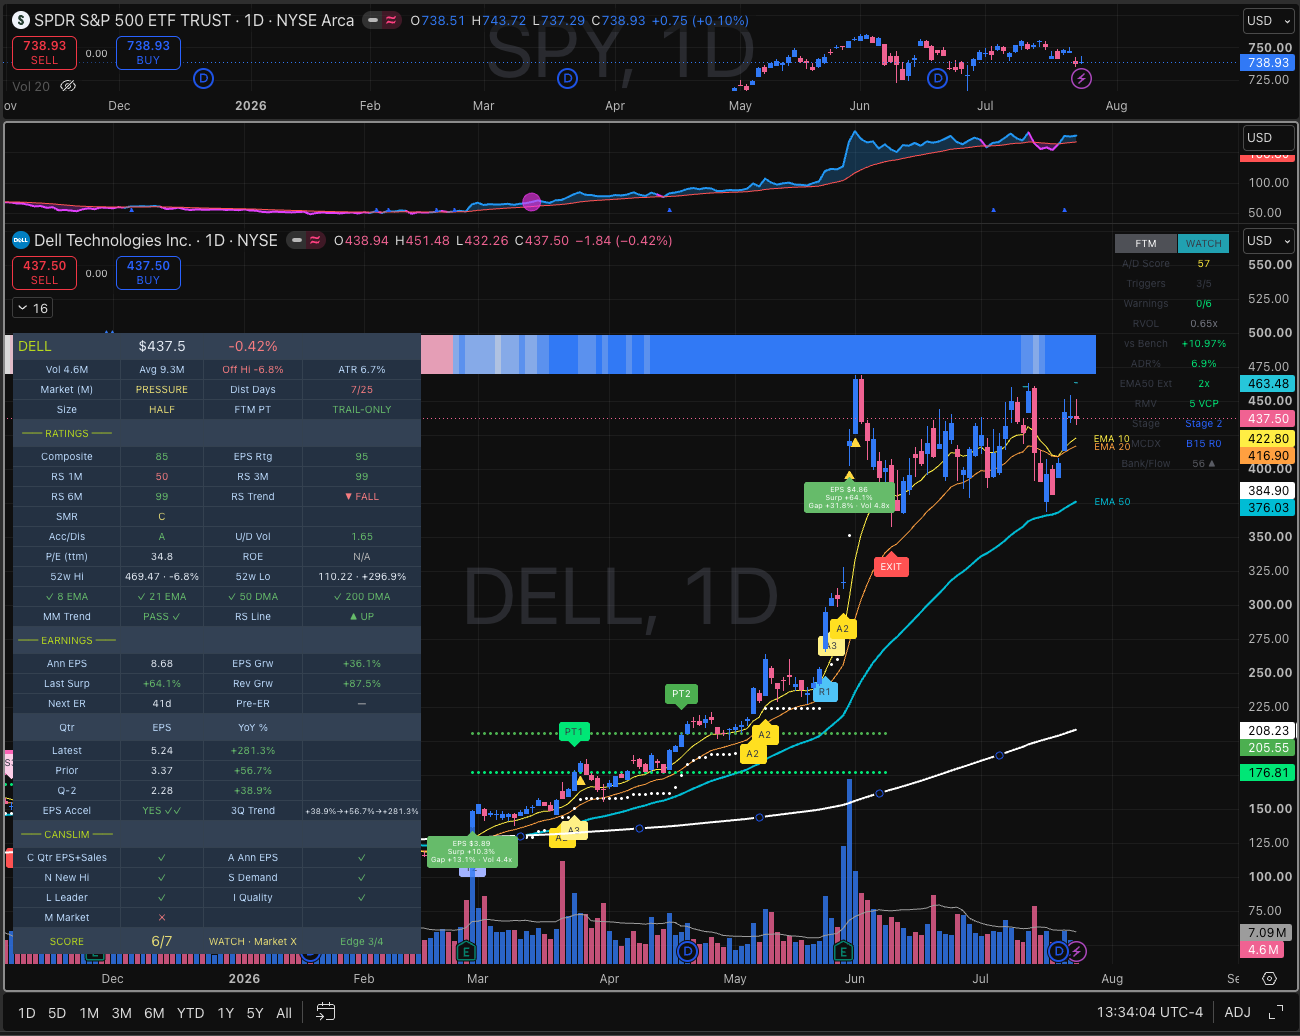
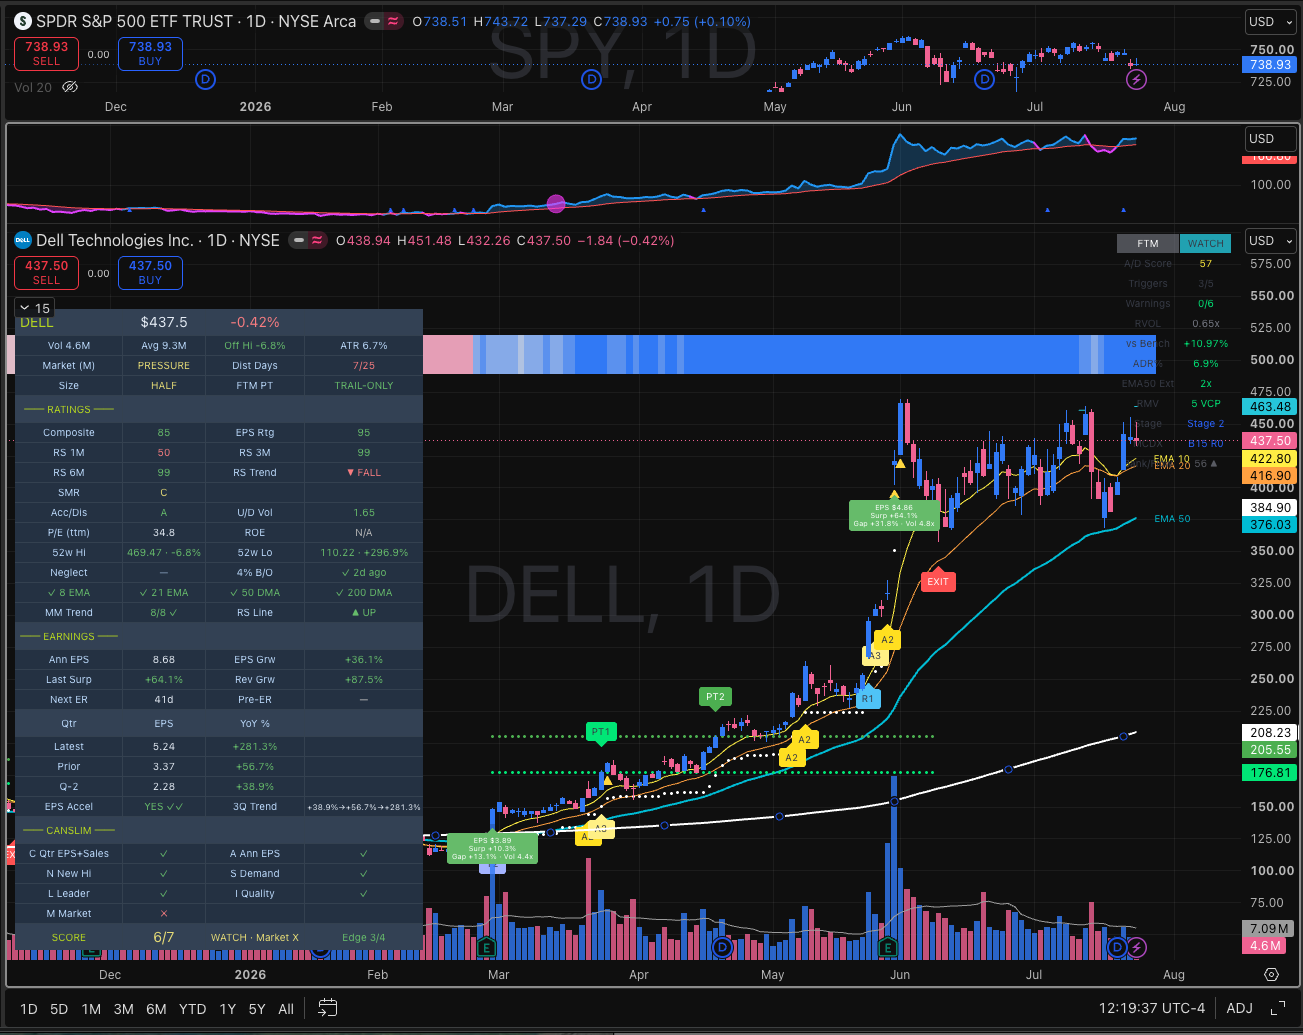
Guide: MarketMerge v2.4 — Neglect/4% B/O row, DELL worked-example replica + new screenshot, TradingView scripts link

diff --git a/FTM_Indicator_Guide.html b/FTM_Indicator_Guide.html
@@ -365,7 +365,8 @@
   <button class="tabbtn active" data-tab="wf">Workflow</button>
   <button class="tabbtn" data-tab="ftm">FTM Plus</button>
   <button class="tabbtn" data-tab="mm">MarketMerge</button>
-  <div class="ver">FTM+ v1.1 · MM v2.3</div>
+  <a class="ver" href="https://www.tradingview.com/u/jackTD25/#published-scripts" target="_blank" rel="noopener" style="margin-left:auto; color:var(--blue); border-color:#2a4a7a; text-decoration:none; font-weight:600">Get the indicators on TradingView ↗</a>
+  <div class="ver" style="margin-left:8px">FTM+ v1.1 · MM v2.4</div>
 </nav>
 
 <div class="page">
@@ -751,38 +752,36 @@
       <div class="section-title">Dashboard walkthrough</div>
       <div class="replica-wrap">
         <div class="panel">
-          <div class="prow phead"><div class="lime">NVDA</div><div class="val">$188.42</div><div class="grn">+2.14%</div><div></div></div>
-          <div class="prow"><div class="lbl">Vol 41.2M</div><div class="lbl">Avg 38.5M</div><div class="grn">Off Hi -3.2%</div><div class="lbl">ATR 2.8%</div></div>
-          <div class="prow"><div class="lbl">Market (M)</div><div class="grn">UPTREND</div><div class="lbl">Dist Days</div><div class="grn">2/25</div></div>
-          <div class="prow"><div class="lbl">Size</div><div class="grn">FULL ▲</div><div class="lbl">FTM PT</div><div class="grn">TRAIL-ONLY</div></div>
+          <div class="prow phead"><div class="lime">DELL</div><div class="val">$437.50</div><div class="rd">-0.42%</div><div></div></div>
+          <div class="prow"><div class="lbl">Vol 4.6M</div><div class="lbl">Avg 9.3M</div><div class="grn">Off Hi -6.8%</div><div class="lbl">ATR 6.7%</div></div>
+          <div class="prow"><div class="lbl">Market (M)</div><div class="yel">PRESSURE</div><div class="lbl">Dist Days</div><div class="rd">7/25</div></div>
+          <div class="prow"><div class="lbl">Size</div><div class="yel">HALF</div><div class="lbl">FTM PT</div><div class="grn">TRAIL-ONLY</div></div>
           <div class="prow phead"><div class="lime">── RATINGS ──</div><div></div><div></div><div></div></div>
-          <div class="prow"><div class="lbl">Composite</div><div class="grn">88</div><div class="lbl">EPS Rtg</div><div class="grn">85</div></div>
-          <div class="prow"><div class="lbl">RS 1M</div><div class="grn">99</div><div class="lbl">RS 3M</div><div class="grn">92</div></div>
-          <div class="prow"><div class="lbl">RS 6M</div><div class="grn">88</div><div class="lbl">RS Trend</div><div class="grn">▲ RISE</div></div>
-          <div class="prow"><div class="lbl">SMR</div><div class="grn">A</div><div class="lbl"></div><div class="lbl"></div></div>
-          <div class="prow"><div class="lbl">Acc/Dis</div><div class="grn">B+</div><div class="lbl">U/D Vol</div><div class="grn">1.34</div></div>
-          <div class="prow"><div class="lbl">P/E (ttm)</div><div class="val">48.2</div><div class="lbl">ROE</div><div class="grn">31.4%</div></div>
-          <div class="prow"><div class="lbl">52w Hi</div><div class="grn">194.60 · -3.2%</div><div class="lbl">52w Lo</div><div class="grn">96.30 · +95.6%</div></div>
+          <div class="prow"><div class="lbl">Composite</div><div class="grn">85</div><div class="lbl">EPS Rtg</div><div class="grn">95</div></div>
+          <div class="prow"><div class="lbl">RS 1M</div><div class="rd">50</div><div class="lbl">RS 3M</div><div class="grn">99</div></div>
+          <div class="prow"><div class="lbl">RS 6M</div><div class="grn">99</div><div class="lbl">RS Trend</div><div class="rd">▼ FALL</div></div>
+          <div class="prow"><div class="lbl">SMR</div><div class="yel">C</div><div class="lbl"></div><div class="lbl"></div></div>
+          <div class="prow"><div class="lbl">Acc/Dis</div><div class="grn">A</div><div class="lbl">U/D Vol</div><div class="grn">1.65</div></div>
+          <div class="prow"><div class="lbl">P/E (ttm)</div><div class="val">34.8</div><div class="lbl">ROE</div><div class="val">N/A</div></div>
+          <div class="prow"><div class="lbl">52w Hi</div><div class="grn">469.47 · -6.8%</div><div class="lbl">52w Lo</div><div class="grn">110.22 · +297%</div></div>
+          <div class="prow"><div class="lbl">Neglect</div><div class="val">—</div><div class="lbl">4% B/O</div><div class="grn">✓ 2d ago</div></div>
           <div class="prow"><div class="grn">✓ 8 EMA</div><div class="grn">✓ 21 EMA</div><div class="grn">✓ 50 DMA</div><div class="grn">✓ 200 DMA</div></div>
-          <div class="prow"><div class="lbl">MM Trend</div><div class="grn">8/8 ✓</div><div class="lbl">RS Line</div><div class="blu">● NEW HI</div></div>
+          <div class="prow"><div class="lbl">MM Trend</div><div class="grn">8/8 ✓</div><div class="lbl">RS Line</div><div class="grn">▲ UP</div></div>
           <div class="prow phead"><div class="lime">── EARNINGS ──</div><div></div><div></div><div></div></div>
-          <div class="prow"><div class="lbl">Ann EPS</div><div class="val">4.12</div><div class="lbl">EPS Grw</div><div class="grn">+58.3%</div></div>
-          <div class="prow"><div class="lbl">Last Surp</div><div class="grn">+8.3%</div><div class="lbl">Rev Grw</div><div class="grn">+38.5%</div></div>
-          <div class="prow"><div class="lbl">Next ER</div><div class="yel">6d</div><div class="lbl">Pre-ER</div><div class="grn">HOLD</div></div>
+          <div class="prow"><div class="lbl">Ann EPS</div><div class="val">8.68</div><div class="lbl">EPS Grw</div><div class="grn">+36.1%</div></div>
+          <div class="prow"><div class="lbl">Last Surp</div><div class="grn">+64.1%</div><div class="lbl">Rev Grw</div><div class="grn">+87.5%</div></div>
+          <div class="prow"><div class="lbl">Next ER</div><div class="val">41d</div><div class="lbl">Pre-ER</div><div class="val">—</div></div>
           <div class="prow phead"><div class="lbl">Qtr</div><div class="lbl">EPS</div><div class="lbl">YoY %</div><div></div></div>
-          <div class="prow"><div class="lbl">Latest</div><div class="val">1.28</div><div class="grn">+65.2%</div><div></div></div>
-          <div class="prow"><div class="lbl">Prior</div><div class="val">1.05</div><div class="grn">+48.1%</div><div></div></div>
-          <div class="prow"><div class="lbl">Q-2</div><div class="val">0.89</div><div class="grn">+32.4%</div><div></div></div>
-          <div class="prow"><div class="lbl">EPS Accel</div><div class="grn">YES ✓✓</div><div class="lbl">3Q Trend</div><div class="val" style="font-size:9px">+32→+48→+65%</div></div>
-          <div class="prow phead"><div class="lime">── FINANCIAL ──</div><div></div><div></div><div></div></div>
-          <div class="prow"><div class="lbl">Margin</div><div class="grn">32.1%</div><div class="lbl">D/E</div><div class="grn">0.22</div></div>
-          <div class="prow"><div class="lbl">Rev Ann</div><div class="val">$96.31B</div><div class="lbl">Net Inc</div><div class="grn">$30.9B</div></div>
+          <div class="prow"><div class="lbl">Latest</div><div class="val">5.24</div><div class="grn">+281.3%</div><div></div></div>
+          <div class="prow"><div class="lbl">Prior</div><div class="val">3.37</div><div class="grn">+56.7%</div><div></div></div>
+          <div class="prow"><div class="lbl">Q-2</div><div class="val">2.28</div><div class="grn">+38.9%</div><div></div></div>
+          <div class="prow"><div class="lbl">EPS Accel</div><div class="grn">YES ✓✓</div><div class="lbl">3Q Trend</div><div class="val" style="font-size:9px">+38.9→+56.7→+281%</div></div>
           <div class="prow phead"><div class="lime">── CANSLIM ──</div><div></div><div></div><div></div></div>
           <div class="prow"><div class="lbl">C Qtr EPS+Sales</div><div class="grn">✓</div><div class="lbl">A Ann EPS</div><div class="grn">✓</div></div>
           <div class="prow"><div class="lbl">N New Hi</div><div class="grn">✓</div><div class="lbl">S Demand</div><div class="grn">✓</div></div>
           <div class="prow"><div class="lbl">L Leader</div><div class="grn">✓</div><div class="lbl">I Quality</div><div class="grn">✓</div></div>
-          <div class="prow"><div class="lbl">M Market</div><div class="grn">✓</div><div></div><div></div></div>
-          <div class="prow phead"><div class="lime">SCORE</div><div class="grn">7/7</div><div class="grn">BUY ZONE</div><div class="grn">Edge 4/4</div></div>
+          <div class="prow"><div class="lbl">M Market</div><div class="rd">✗</div><div></div><div></div></div>
+          <div class="prow phead"><div class="lime">SCORE</div><div class="yel">6/7</div><div class="yel">WATCH · Market X</div><div class="grn">Edge 3/4</div></div>
         </div>
         <div>
           <h4 class="block">Header</h4>
@@ -810,6 +809,7 @@
             <tr><td><b>SMR</b></td><td>Sales + Margin + ROE</td><td class="good">A / B</td></tr>
             <tr><td><b>Acc/Dis</b></td><td>50-day up/down volume</td><td class="good">A · B+ · B</td></tr>
             <tr><td><b>52w Hi / Lo</b></td><td>Each shows how far price sits from it, <b>coloured by the criterion it tests</b>. <b>52w Lo</b>: green when ≥30% above the low (Minervini #6). <b>52w Hi</b>: green within 10% of the high (CANSLIM <b>N</b>), yellow within 25% (Minervini #7), red beyond</td><td class="good">both green</td></tr>
+            <tr><td><b>Neglect / 4% B/O</b></td><td>Stockbee's seller-exhaustion read. <b>Neglect</b>: no net price progress vs ~2 years ago — weak hands gone, no overhead supply. <span class="good">TURN ✓</span> when also ≥30% above the 52w low · <span class="warn">DORMANT</span> when the turn isn't confirmed · <code>—</code> not neglected · <code>thin</code> fails the liquidity floor. <b>4% B/O</b>: bars since a one-day 4%+ gain on higher volume (the wake-up trigger) — green within ~10 bars. Backtested: the same 4% breakout carries more follow-through in neglected names. Context only — no score impact</td><td class="good">TURN + recent B/O</td></tr>
             <tr><td><b>MA stack</b></td><td>Close vs <b>8 / 21 EMA</b> (institutional short-term) + <b>50 / 200 DMA</b> — ✓ above (green), ✗ below (red)</td><td class="good">all ✓</td></tr>
             <tr><td><b>MM Trend</b></td><td>Minervini Trend Template, scored <b>x/8</b> — price &gt; 50 &gt; 150 &gt; 200 DMA · 200 DMA rising ≥1 month · <b>≥30% above the 52w low</b> · <b>within 25% of the 52w high</b> · RS ≥70. Hover to see which criteria are failing</td><td class="good">8/8</td></tr>
             <tr><td><b>RS Line</b></td><td>20-bar direction / 52w high</td><td class="info">● NEW HI</td></tr>
@@ -1075,7 +1075,8 @@
   </div>
 
   <footer class="footer">
-    FTM+ v1.1 (Flow · Trend · Momentum, Pine v6) &nbsp;+&nbsp; MarketMerge v2.3 (CANSLIM Data Panel, Pine v6)<br>
+    FTM+ v1.1 (Flow · Trend · Momentum, Pine v6) &nbsp;+&nbsp; MarketMerge v2.4 (CANSLIM Data Panel, Pine v6)<br>
+    <a href="https://www.tradingview.com/u/jackTD25/#published-scripts" target="_blank" rel="noopener" style="color:var(--blue); text-decoration:none">Get the indicators → tradingview.com/u/jackTD25 ↗</a><br>
     MarketMerge selects · FTM times. Ratings are approximations — verify fundamentals at the source before sizing up.
   </footer>
 
